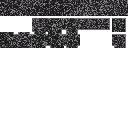
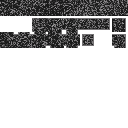
Island tiles

Changed region(s): [[0.625, 0.25, 0.75, 0.375]]

diff --git a/src/tiles.rs b/src/tiles.rs
@@ -82,6 +82,7 @@ enum TileShape {
     Peninsula,
     Corner,
     DentedCorner,
+    Island
 }
 
 enum TileType {
@@ -115,6 +116,7 @@ impl Tile {
             (Ground, Peninsula) => (96.0, 16.0),
             (Ground, Corner) => (112.0, 16.0),
             (Ground, DentedCorner) => (112.0, 32.0),
+            (Ground, Island) => (80.0, 32.0)
         }
     }
 
@@ -295,7 +297,7 @@ pub fn gen_map_chunk(p: f32) -> [Option<Tile>; CHUNK_SIZE] {
             }
             (false, false, false, false) => {
                 // Island tile
-                tile_shape = TileShape::Junction;
+                tile_shape = TileShape::Island;
                 orientation = TileOrientation::Default;
             }
         };

diff --git a/src/main.rs b/src/main.rs
@@ -21,7 +21,7 @@ fn window_conf() -> Conf {
 async fn main() {
 
     init_tile_atlas();
-    let map = gen_map_chunk(0.80);
+    let map = gen_map_chunk(0.50);
     loop {
         // Clear screen
         clear_background(BLACK);
